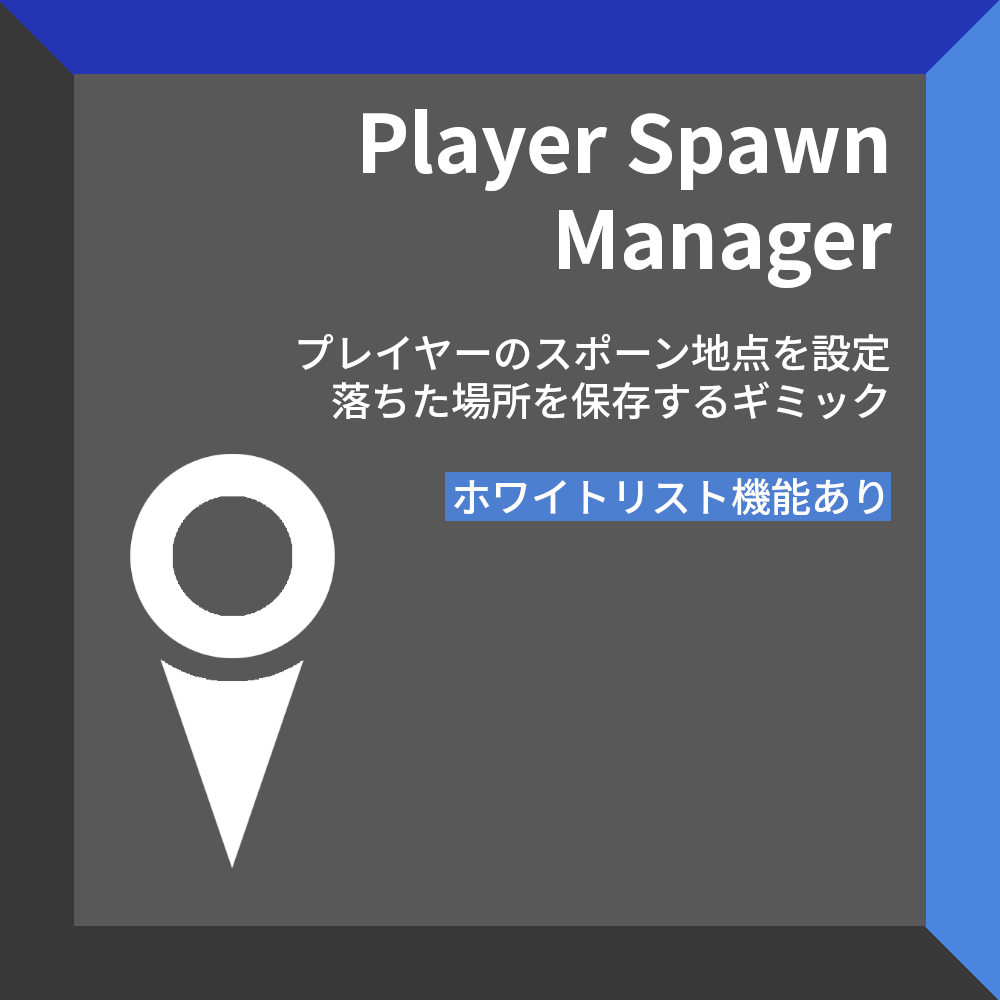
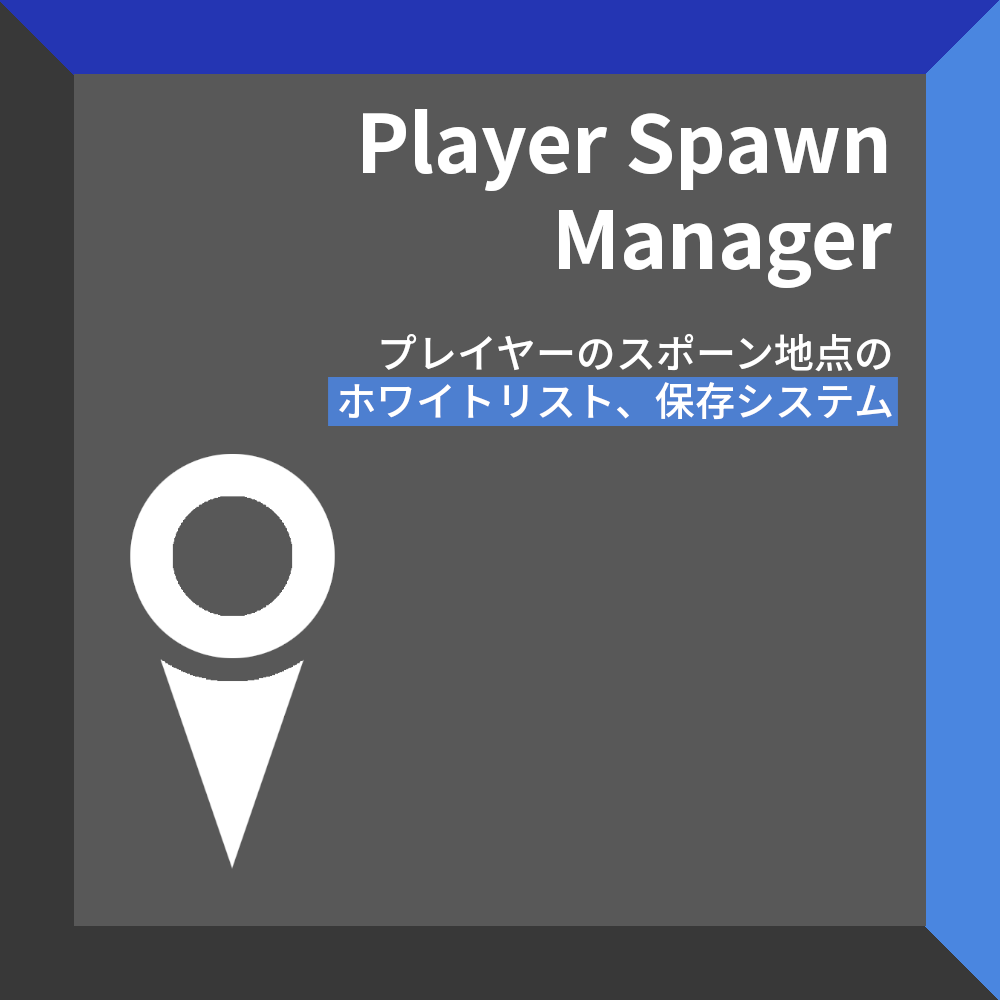
Updated projects

Changed region(s): [[0.31, 0.31, 0.899, 0.434], [0.434, 0.465, 0.899, 0.527]]

diff --git a/src/content/posts/my_projects/index.md b/src/content/posts/my_projects/index.md
@@ -9,7 +9,7 @@ draft: false
 ---
 
 :::note[更新]
-2026年2月7日
+2026年4月20日
 :::
 
 ## 個人プロジェクト
@@ -46,11 +46,18 @@ Booth ページ: https://saphir.booth.pm/
 
 ![](./PlayerSpawnManager-1.png)
 
-プレイヤーのスポーン地点を変更したり、保存したりするギミックです。
-
-ホワイトリストも利用できます。
+プレイヤーのスポーン地点のホワイトリスト、保存システムです。
 
 有料プランでは、インスタンスの中で設定を確認できるコントロールパネルが同封されています。
+<br>
+
+##### RJoinNotification
+
+![](./P0.png)
+
+Canvas Animation Systemを利用した入退室通知システムです。
+
+初めてVPMに対応しました。
 <br><br>
 
 #### Githubで公開中のギミック
@@ -134,7 +141,7 @@ https://vrchat.com/home/user/usr_f1f901de-fba0-4e1f-bce0-353165037cc7
 ワールドサムネ、ギミック紹介写真などはすべてRuriSapphireのオリジナルデザインとなります。（フォントはアセットを利用しています）
 <br><br>
 
-## グループプロジェクト
+## グループプロジェクト / 依頼など
 
 ### ワールド
 
@@ -172,6 +179,21 @@ https://vrchat.com/home/world/wrld_e6515a8a-3d62-4ada-889e-5b0914e2a637/info
 <br><br>
 
 ### デザイン
+
+(名前は敬称略)
+
+#### すてらダンス部 ポスター
+
+写真: 星海月すてら
+<br>
+
+#### 東京大学2025年五月祭UTvダンス演出ポスター
+
+写真: あずき、レン、ヘンドー、vj_novu
+<br>
+
+#### 東京大学2024年駒場祭UTv出展案内ポスター
+<br>
 
 #### MELTY CHOCOLATTE 募集用ポスターおよびロゴ
 

diff --git a/src/content/spec/about.md b/src/content/spec/about.md
@@ -36,7 +36,7 @@ UT-Virtual(東京大学発のVRサークル) 第8、9期運営会メンバー
 
 （東大生ではありません！日本の大学/院生であれば入れます！）
 
-無言cafe～Seren tia～ キャスト
+無言cafe～seren tia～ キャスト
 
 <br>
 
